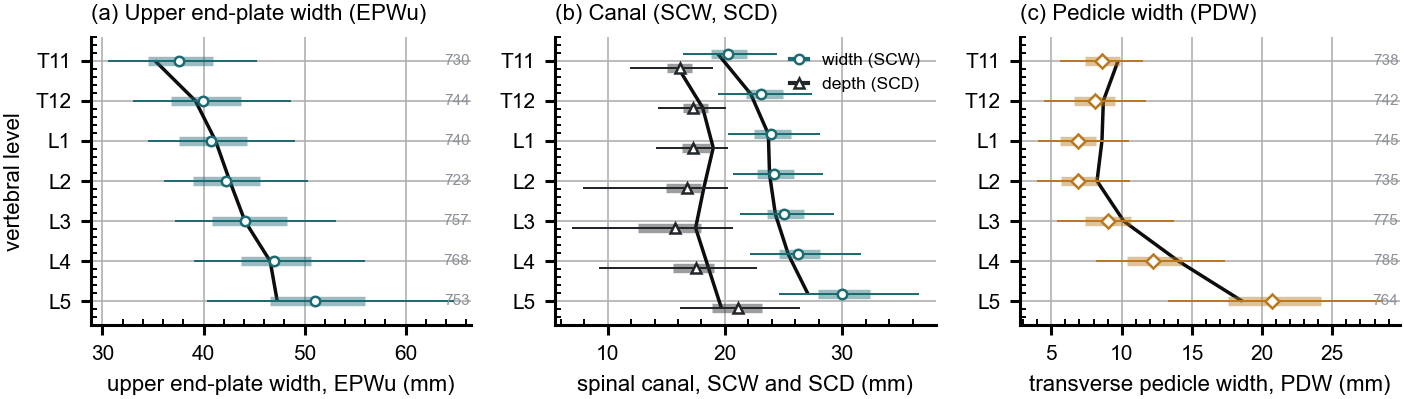
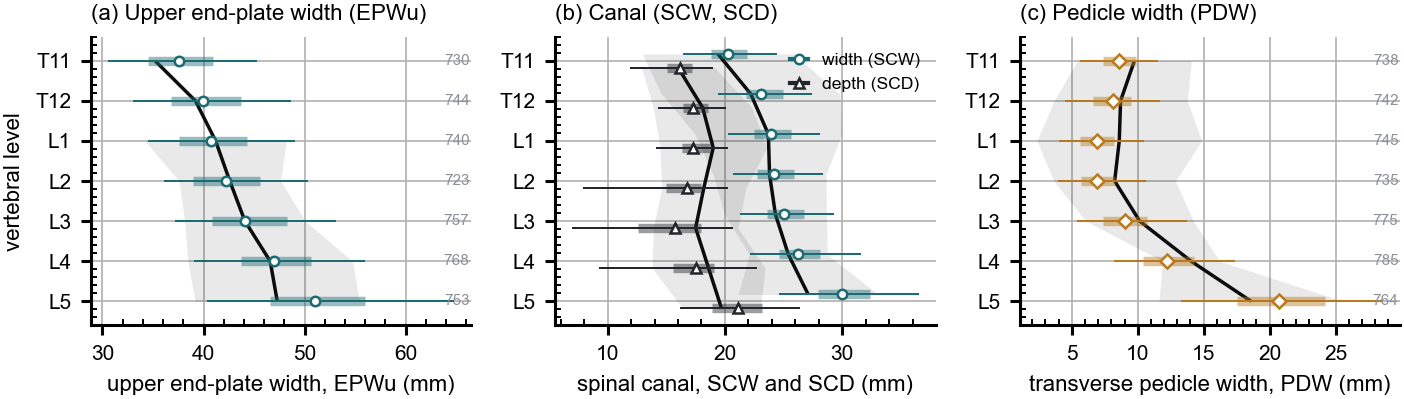
Panjabi's spread, not just his mean, behind Figure 6
A reference plotted as a bare line invites the reading that any departure from it
is a finding. Panjabi reports SEM on n=12, so the population spread is recoverable
as SD = SEM*sqrt(12), and mean +/- 1.96 SD is what a reader needs to judge whether
a patient is unusual. Drawn as a grey band behind each reference line.

Every median in all three panels falls inside the band, and the interval widths
agree to a median ratio of 1.04x -- so the 5th-95th percentile spread here is the
reference population's spread, not an artefact of measuring 802 living patients
instead of twelve cadavers. The two places it is not (canal depth at L2/L3,
end-plate width at L5) are now visible rather than arguable.

Caption retrimmed to hold the reprint at ten pages.

Changed region(s): [[0.735, 0.1203, 0.9801, 0.9023], [0.4594, 0.1504, 0.5513, 0.7519]]

diff --git a/paper/mpda/make_levelatlas_fig.py b/paper/mpda/make_levelatlas_fig.py
@@ -21,6 +21,7 @@ from __future__ import annotations
 
 import argparse
 import csv
+import math
 from pathlib import Path
 
 import numpy as np
@@ -116,7 +117,7 @@ def load_reference_series():
     written out per series, so adding a row to a CSV adds a correctly-labelled curve and
     the legend cannot fall out of step with the data behind it.
     """
-    tally, meta = {}, {}
+    tally, meta, sdev = {}, {}, {}
     for path in (LEVELREF_CSV, SPREAD_CSV):
         if not path.exists():
             continue
@@ -135,10 +136,28 @@ def load_reference_series():
             ser = SERIES_ALIAS.get(r["series"], r["series"])
             tally.setdefault((meas, ser), {}).setdefault(r["level"], []).append(v)
             meta.setdefault(ser, r)
+            # POPULATION SD, not the standard error of the mean. Panjabi reports
+            # "mean +/- SEM" with n=12, and SEM is about 3.5x narrower than the SD it
+            # came from. Drawing that next to a percentile interval over 700 patients
+            # would compare the precision of HIS MEAN against the spread of MY
+            # POPULATION, which is not a comparison at all -- his band would look
+            # implausibly tight and this cohort implausibly variable. Converted back.
+            try:
+                disp_v = float(r.get("sd") or "")
+                nn = float(r.get("n") or "")
+            except ValueError:
+                continue
+            kind = (r.get("dispersion") or "").upper()
+            sd = disp_v * math.sqrt(nn) if "SEM" in kind or "SE" == kind.strip() else disp_v
+            sdev.setdefault((meas, ser), {})[r["level"]] = (sd, nn)
     out = {}
     for (meas, ser), per_level in tally.items():
         for lv, vals in per_level.items():
             out.setdefault(meas, {}).setdefault(ser, {})[lv] = sum(vals) / len(vals)
+
+    spread = {}
+    for (meas, ser), per_level in sdev.items():
+        spread.setdefault(meas, {})[ser] = per_level
 
     labels = {}
     for ser, r in meta.items():
@@ -150,7 +169,48 @@ def load_reference_series():
                 "CT" if "ct" in (r.get("modality") or "").lower() else "")
         bits = ", ".join(x for x in (kind, (f"$n$={n}" if n else "")) if x)
         labels[ser] = f"{ser} ({bits})" if bits else ser
-    return out, labels
+    return out, labels, spread
+
+
+# WHAT INTERVAL THE REFERENCE BAND SHOWS. The question this figure asks is whether an
+# individual patient is unusual, not whether two means differ, so the band has to be an
+# interval for an INDIVIDUAL of the reference population -- mean +/- 1.96 SD -- and not a
+# confidence interval on Panjabi's mean. With n=12 those differ by a factor of 3.5, and
+# the confidence interval would be the wrong one twice over: too narrow to compare against
+# a percentile range, and answering a question nobody asked.
+#
+# The SD is recovered from the reported SEM (see load_reference_series). It is estimated
+# from twelve specimens and is itself uncertain, which is why the band is drawn as a soft
+# fill rather than hard edges, and why n is named in the caption.
+REF_K = 1.96
+
+
+def draw_reference_band(ax, spread, refs, measure, y_of, series=EMPHASIS, offset=0.0):
+    """Panjabi's population interval, mean +/- REF_K SD, behind the cohort rows.
+
+    Drawn only where the source reports a dispersion. The T11--T12 end-plate means are
+    digitised from a figure, which carries no SEM, so the band stops at L1 there rather
+    than being extended by assumption.
+    """
+    per_level = (refs.get(measure) or {}).get(series)
+    sd_level = (spread.get(measure) or {}).get(series)
+    if not per_level or not sd_level:
+        return
+    runs, cur = [], []
+    for lv in LEVELS:                      # keep anatomical order, break where SD is absent
+        if lv in per_level and lv in sd_level and lv in y_of:
+            cur.append(lv)
+        elif cur:
+            runs.append(cur); cur = []
+    if cur:
+        runs.append(cur)
+    for run in runs:
+        if len(run) < 2:
+            continue
+        ys = [y_of[l] + offset for l in run]
+        lo = [per_level[l] - REF_K * sd_level[l][0] for l in run]
+        hi = [per_level[l] + REF_K * sd_level[l][0] for l in run]
+        ax.fill_betweenx(ys, lo, hi, color="#000000", alpha=0.085, lw=0, zorder=0.6)
 
 
 def draw_reference_series(ax, refs, measure, y_of, styles, labels,
@@ -182,7 +242,8 @@ def build(out: Path, reference: bool = True):
     sm = MF.load("surgical_morphometrics.csv")
     dg = MF.load("degenerative.csv")
     op = MF.load("opportunistic.csv")
-    refs, ref_labels = load_reference_series() if reference else ({}, {})
+    refs, ref_labels, ref_spread = (load_reference_series() if reference
+                                    else ({}, {}, {}))
     styles = _style_table({ser for d in refs.values() for ser in d})
     drawn = {}
     if not (lg and sm and dg and op):
@@ -238,6 +299,7 @@ def build(out: Path, reference: bool = True):
     # (b) superior endplate width
     draw(ax_b, S["endplate"], y_of, TEAL, "o")
     annotate_n(ax_b, S["endplate"], y_of, FAINT)
+    draw_reference_band(ax_b, ref_spread, refs, "endplate", y_of)
     draw_reference_series(ax_b, refs, "endplate", y_of, styles, ref_labels, drawn=drawn)
     ax_b.set_xlabel("upper end-plate width, EPWu (mm)")
     ax_b.set_title("(a) Upper end-plate width (EPWu)", loc="left", fontsize=8.0)
@@ -245,8 +307,10 @@ def build(out: Path, reference: bool = True):
     # (c) canal, width against depth
     draw(ax_c, S["canal_w"], y_of, TEAL, "o", offset=+0.17, label="width (SCW)")
     draw(ax_c, S["canal_ap"], y_of, INK, "^", offset=-0.17, label="depth (SCD)")
+    draw_reference_band(ax_c, ref_spread, refs, "canal_w", y_of, offset=+0.17)
     draw_reference_series(ax_c, refs, "canal_w", y_of, styles, ref_labels,
                           offset=+0.17, drawn=drawn)
+    draw_reference_band(ax_c, ref_spread, refs, "canal_ap", y_of, offset=-0.17)
     draw_reference_series(ax_c, refs, "canal_ap", y_of, styles, ref_labels,
                           offset=-0.17, drawn=drawn)
     ax_c.set_xlabel("spinal canal, SCW and SCD (mm)")
@@ -259,6 +323,7 @@ def build(out: Path, reference: bool = True):
     # (d) transverse pedicle width
     draw(ax_d, S["pedicle"], y_of, OCHRE, "D")
     annotate_n(ax_d, S["pedicle"], y_of, FAINT)
+    draw_reference_band(ax_d, ref_spread, refs, "PDW", y_of)
     draw_reference_series(ax_d, refs, "PDW", y_of, styles, ref_labels, drawn=drawn)
     ax_d.set_xlabel("transverse pedicle width, PDW (mm)")
     ax_d.set_title("(c) Pedicle width (PDW)", loc="left", fontsize=8.0)

diff --git a/paper/mpda/main.tex b/paper/mpda/main.tex
@@ -802,11 +802,12 @@ enumeration, a model trained on them is not learning the convention that fails.
 \begin{figure*}[t]
 \centering
 \includegraphics[width=\linewidth,keepaspectratio]{figures/fig_levelatlas.pdf}
-\caption{Morphometry by level, T11--L5, as median, interquartile range and 5th--95th
-percentile, with $n$ at right. (a) Upper end-plate width EPWu. (b) Canal width SCW and
-depth SCD. (c) Transverse pedicle width PDW, the mean of the two sides. Black lines are
-Panjabi's cadaveric means\cite{panjabi1991,panjabi1992}, T11--T12 EPWu digitised from
-Figure 4A of the former.}
+\caption{Morphometry by level, T11--L5: median, interquartile range, 5th--95th
+percentile, $n$ at right. (a) End-plate width EPWu. (b) Canal width SCW and depth SCD.
+(c) Pedicle width PDW, both sides averaged. Black lines are Panjabi's cadaveric
+means\cite{panjabi1991,panjabi1992}; grey bands his population interval, mean $\pm$ 1.96
+SD, SD recovered from the reported SEM ($n=12$). T11--T12 EPWu is digitised from his
+Figure 4A.}
 \label{fig:levelatlas}
 \end{figure*}
 
